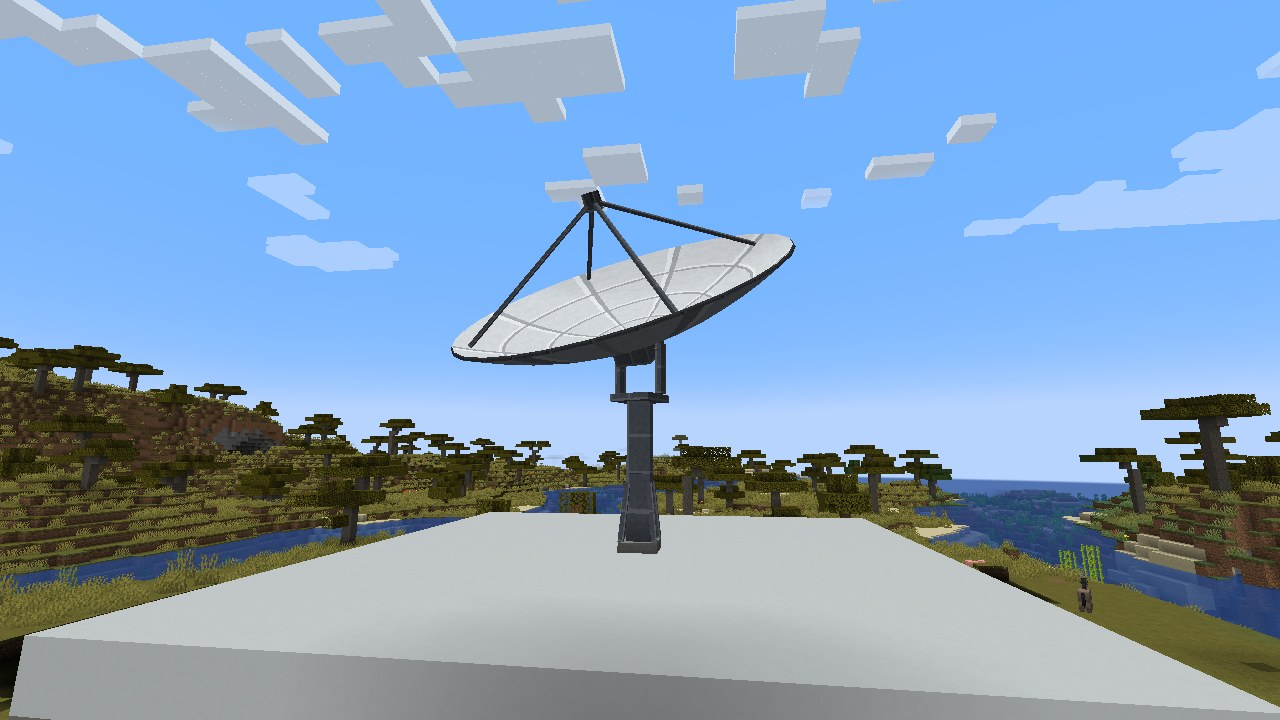
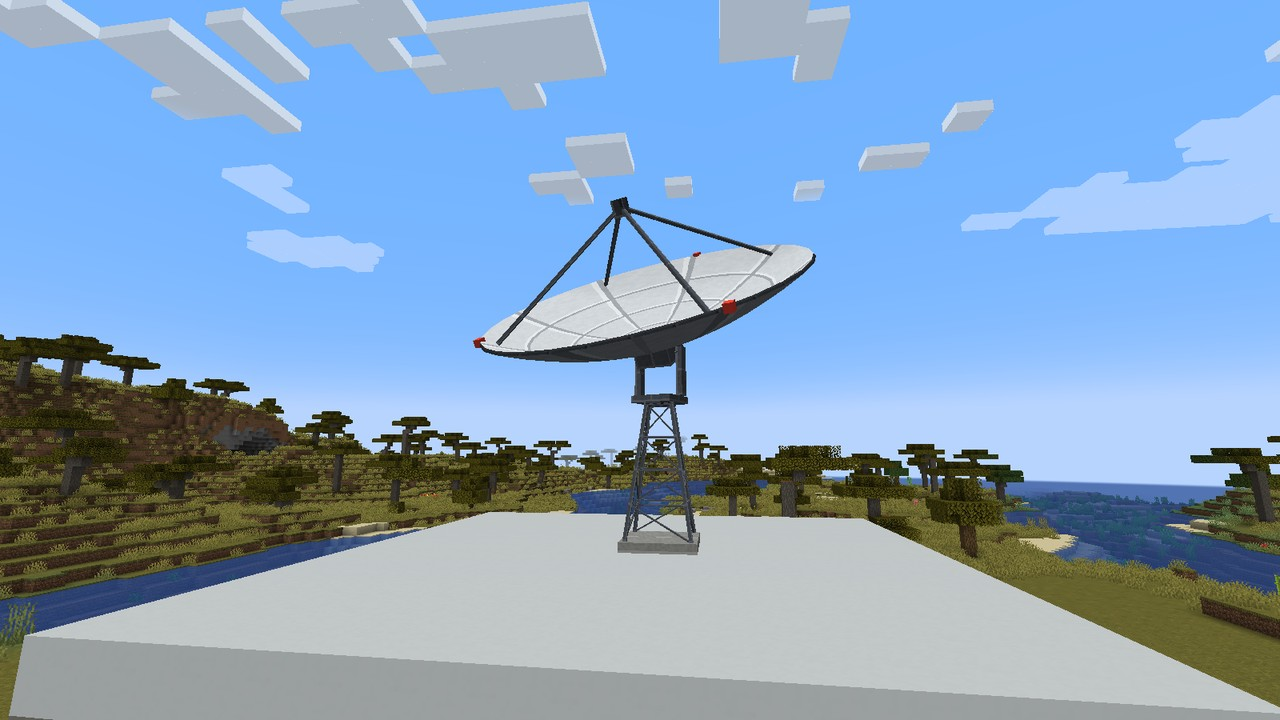
Add subspace relays and lattice dish masts (0.22.1)

diff --git a/README.md b/README.md
@@ -1,4 +1,4 @@
-> This readme describes **version 0.21.4**. If you play an older version, some of the features and settings described
+> This readme describes **version 0.22.1**. If you play an older version, some of the features and settings described
 > here may not exist yet.
 
 [![Watch the trailer on YouTube](images/trailer.jpg)](https://youtu.be/bzUp_dDhpyM)
@@ -9,7 +9,8 @@
 
 **Stellar Cartography** brings the control room of Stargate Command to **Just Stargate Mod**.
 Build an SGC computer next to your Stargate, research distant worlds on a star map spanning the Milky Way, other
-galaxies and the whole universe, reveal their gate addresses and dial them with a single click.
+galaxies and the whole universe, reveal their gate addresses and dial them with a single click. Travel there and build
+subspace relays to pick up the signals of the worlds beyond.
 
 Every destination on the map leads to a real dimension of your world, so the map grows with your modpack. Progress is
 shared within your team.
@@ -40,10 +41,8 @@ shared within your team.
 
 ![The three map levels](images/map_levels.png)
 
-- Three map levels: the **Milky Way** (light years), **Galaxies** like Andromeda or the Pegasus Dwarf (millions of
-  light years) and the **Universe** of superclusters (billions of light years).
+- Three map levels: the **Milky Way**, **Galaxies** and the **Universe** of superclusters.
 - The map is generated from your world seed, so every world has its own.
-- Destinations you haven't researched yet only show "???".
 - **Galaxies** and **Universe** unlock once the DHD of the nearby Stargate has a **DHD Glyph Crystal** (8/9 chevrons),
   or when the computer is linked to a Universe Stargate.
 - Marker colours show what you know: uncharted, charted, visited (someone of your team travelled there) and
@@ -53,14 +52,33 @@ shared within your team.
 
 ![Select, analyze, dial](images/research_steps.png)
 
-1. **Select** an uncharted destination. The console shows how long the analysis takes and how much energy it needs.
+1. **Select** an uncharted destination that receives a signal (see Subspace Relays below). The console shows how long
+   the analysis takes and how much energy it needs.
 2. **Analyze** it (with a big enough satellite dish). The computer uses FE while it works; more racks make it faster.
 3. **Dial**: a charted destination reveals its gate address, world, distance, the energy your gate needs to dial and survey
    data like climate, atmosphere and threat level. One click on **DIAL** lets your Stargate dial it.
 
 The first destination of a dimension leads to its main Stargate. Every further one gets a Stargate of its own, far away
-from all others, so it feels like a new world. If the computer stands in another dimension than the
-Overworld, the map marks its location and measures all distances from there.
+from all others, so it feels like a new world.
+
+### Subspace Relays
+
+![The three subspace relays](images/subspace_relays.jpg)
+
+- At first only the **two systems nearest to home** of every level receive a signal. Everything else shows as faint
+  noise on the map and can't be analysed yet.
+- Travel to a system and build a **Subspace Relay** within 32 blocks of its Stargate: the systems linked to it
+  receive a signal and can be analysed. Work your way out from home, relay by relay.
+- The **small** relay works on the Milky Way, the
+  **medium** one also on the Galaxies level, the **large** one on every level. The relay computer
+  needs no power and no loaded chunks.
+- While a relay stands, the systems linked to it need **25 % less work** to analyse.
+- Every SGC computer of your team logs relays going online or offline in its mission log.
+
+![The relay network on the map](images/relay_network.png)
+
+The map draws the links: a line between two systems with a signal, brighter with a pulse running along it next to
+your relays, and only a short dashed hint towards a destination without a signal.
 
 ### Gate List & Notebook Pages
 
@@ -167,6 +185,17 @@ Copy it to `defaultconfigs/` to use it for every new world. All multipliers defa
 | `dialCostMultiplier` | `1.0` | Energy to open a wormhole. Applies to **every** Stargate, also when dialed with a DHD. |
 | `upholdCostMultiplier` | `1.0` | Energy per tick to keep a wormhole open. Applies to every Stargate. |
 | `distanceCostMultiplier` | `1.0` | How much distance raises the gate energy (`0` = distance doesn't matter, `2.0` = far targets cost twice as much extra). |
+
+**Relay**
+
+| Setting | Default | What it does |
+|---|---|---|
+| `requireRelays` | `true` | Destinations need a signal to be analysed. `false`: every destination of an unlocked level can be analysed at once, as before 0.22.0. |
+| `startSignals` | `2` | How many destinations of every level (the nearest to home) receive a signal from the start. |
+| `linkFalloff` | `1.25` | How quickly the chance of a link drops with the distance between two destinations. Higher values give more cross links, but also more long lines between groups. |
+| `maxLinks` | `3` | Most links a destination has. |
+| `relayRadius` | `32` | How far (in blocks) a relay may be from the Stargate of its destination. |
+| `relayBonus` | `0.25` | Less analysis work for destinations linked to one of the team's relays (`0` = no bonus). |
 
 **Other**
 
